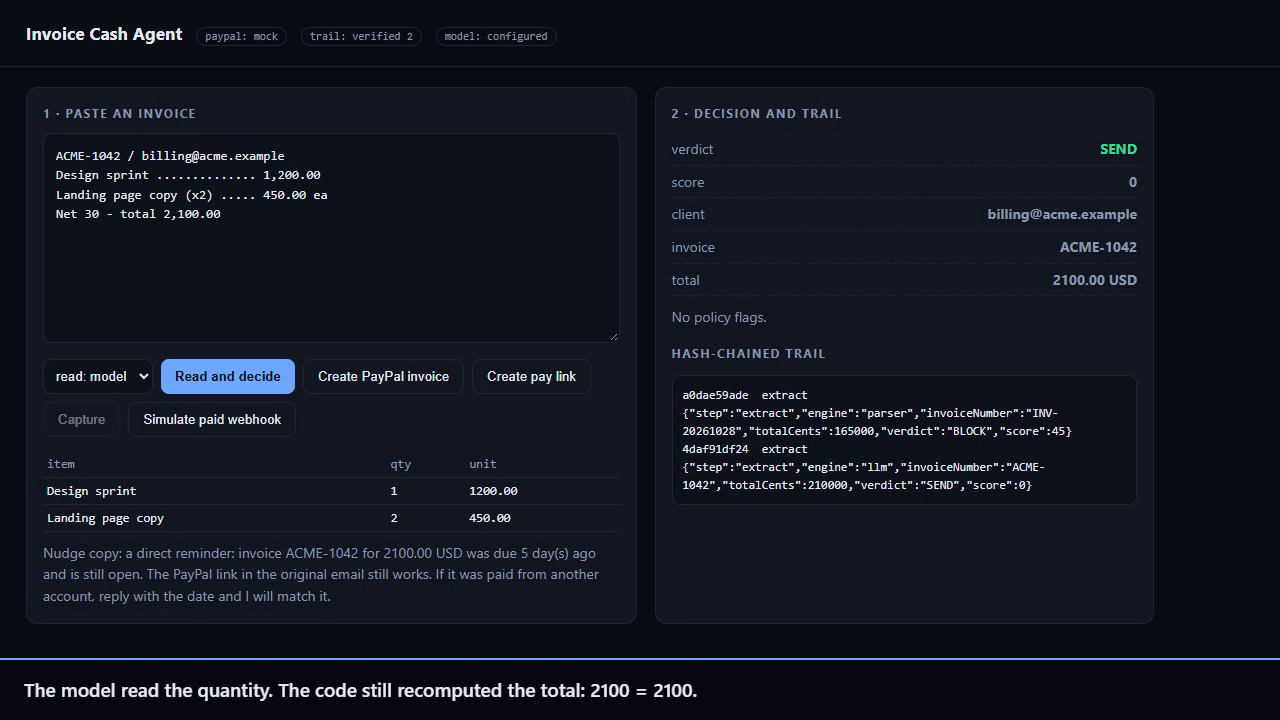
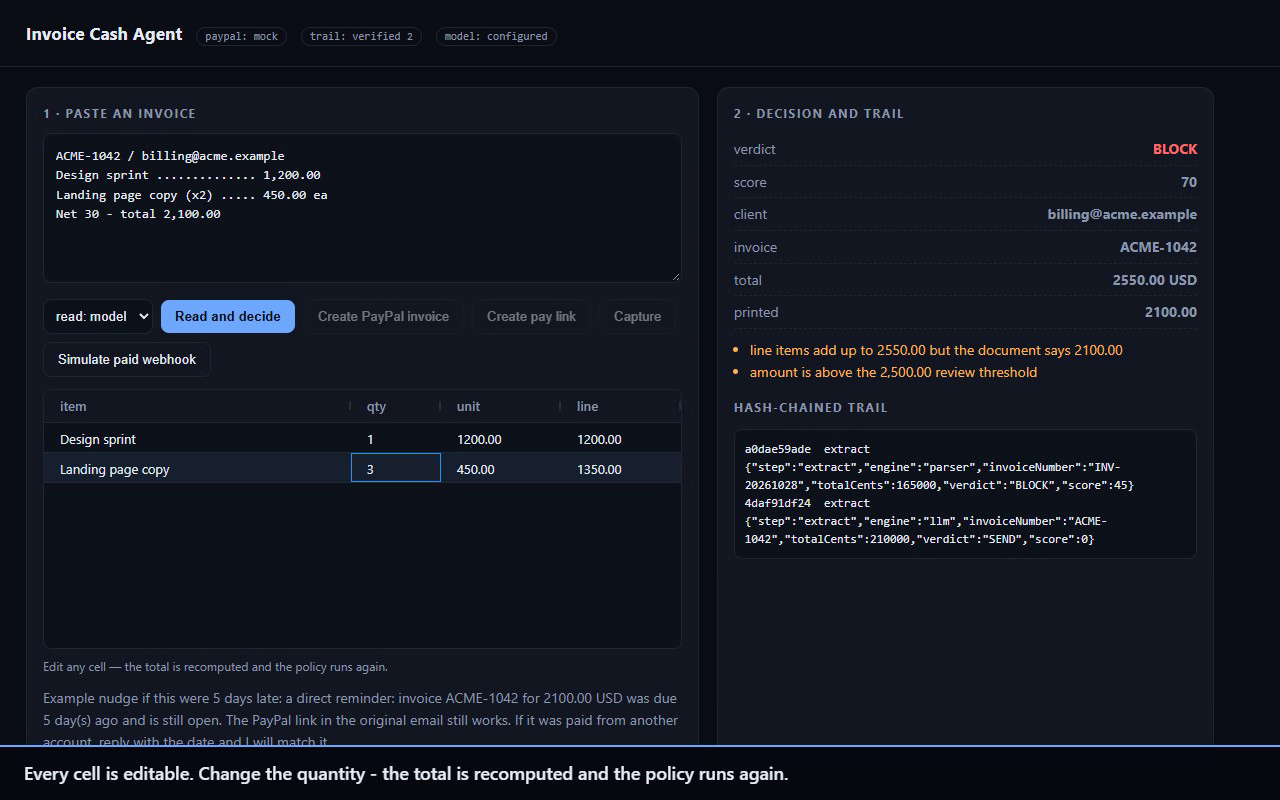
Wait for the grid library, show a reading state, and refresh the screenshot

diff --git a/public/index.html b/public/index.html
@@ -117,7 +117,9 @@ const COLS = [
 ];
 
 function ensureGrid() {
-  if (gridApi || !window.agGrid || window.__noGrid) return false;
+  if (gridApi) return true;
+  if (!window.agGrid || window.__noGrid) return false;
+  $('grid').innerHTML = '';
   gridApi = agGrid.createGrid($('grid'), {
     columnDefs: COLS,
     rowData: [],
@@ -156,8 +158,22 @@ async function recompute() {
   renderDecision(body.invoice, body.decision);
 }
 
-function showItems(inv) {
-  if (ensureGrid()) {
+// The grid script comes from a CDN: it may still be in flight when the first document
+// arrives. Wait for it briefly, then fall back to a plain table rather than show nothing.
+function waitForGrid(ms) {
+  return new Promise((resolve) => {
+    const t0 = Date.now();
+    const tick = () => {
+      if (ensureGrid()) return resolve(true);
+      if (Date.now() - t0 > ms) return resolve(false);
+      setTimeout(tick, 200);
+    };
+    tick();
+  });
+}
+
+async function showItems(inv) {
+  if (ensureGrid() || await waitForGrid(6000)) {
     gridApi.setGridOption('rowData', inv.items.map((i) => ({ name: i.name, quantity: i.quantity, unit: i.unit })));
     $('hint').textContent = 'Edit any cell — the total is recomputed and the policy runs again.';
   } else {
@@ -176,10 +192,20 @@ async function refresh() {
 }
 
 $('extract').onclick = async () => {
-  const { body } = await api('/api/extract', { text: $('text').value, engine: $('engine').value });
+  const btn = $('extract');
+  const label = btn.textContent;
+  btn.disabled = true;
+  btn.textContent = 'Reading…';
+  let body;
+  try {
+    ({ body } = await api('/api/extract', { text: $('text').value, engine: $('engine').value }));
+  } finally {
+    btn.disabled = false;
+    btn.textContent = label;
+  }
   if (body.error) { $('out').innerHTML = '<span class="v-BLOCK">' + body.error + '</span>'; return; }
   last = body;
-  showItems(body.invoice);
+  await showItems(body.invoice);
   renderDecision(body.invoice, body.decision);
   $('out').innerHTML = '<p class="muted" style="margin:0">Example nudge if this were 5 days late: ' + body.nudge + '</p>';
   refresh();
